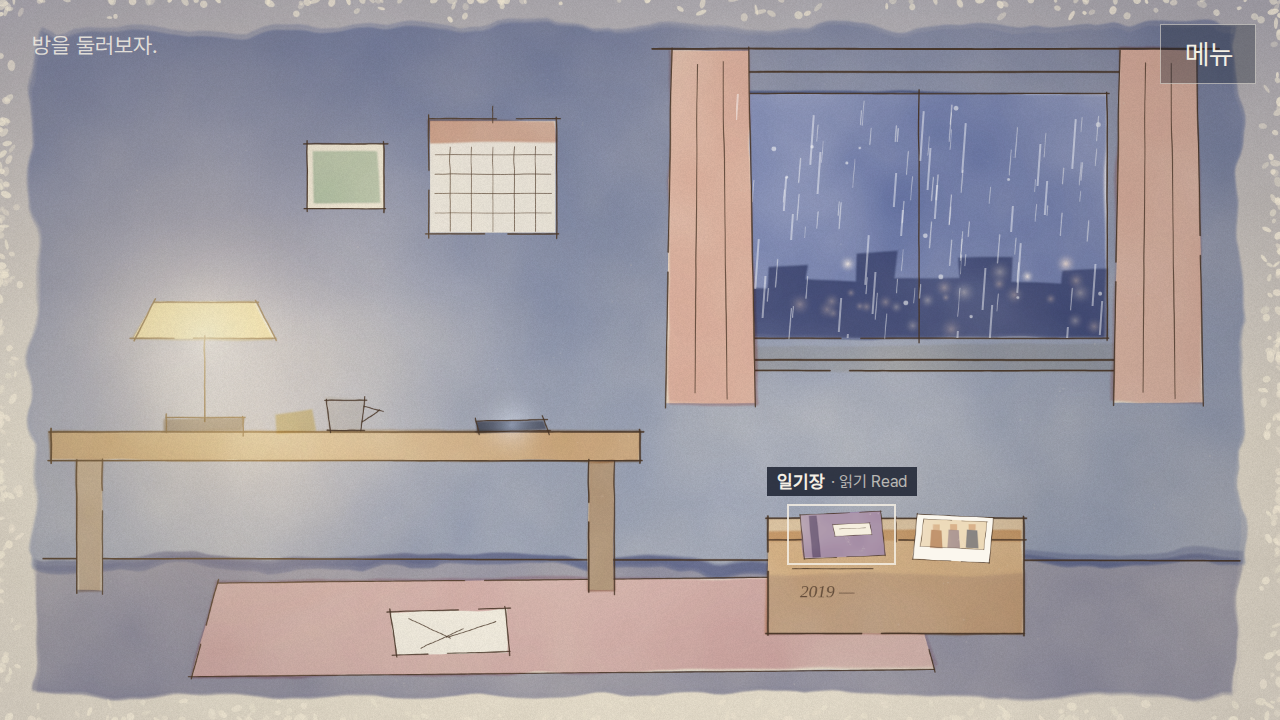
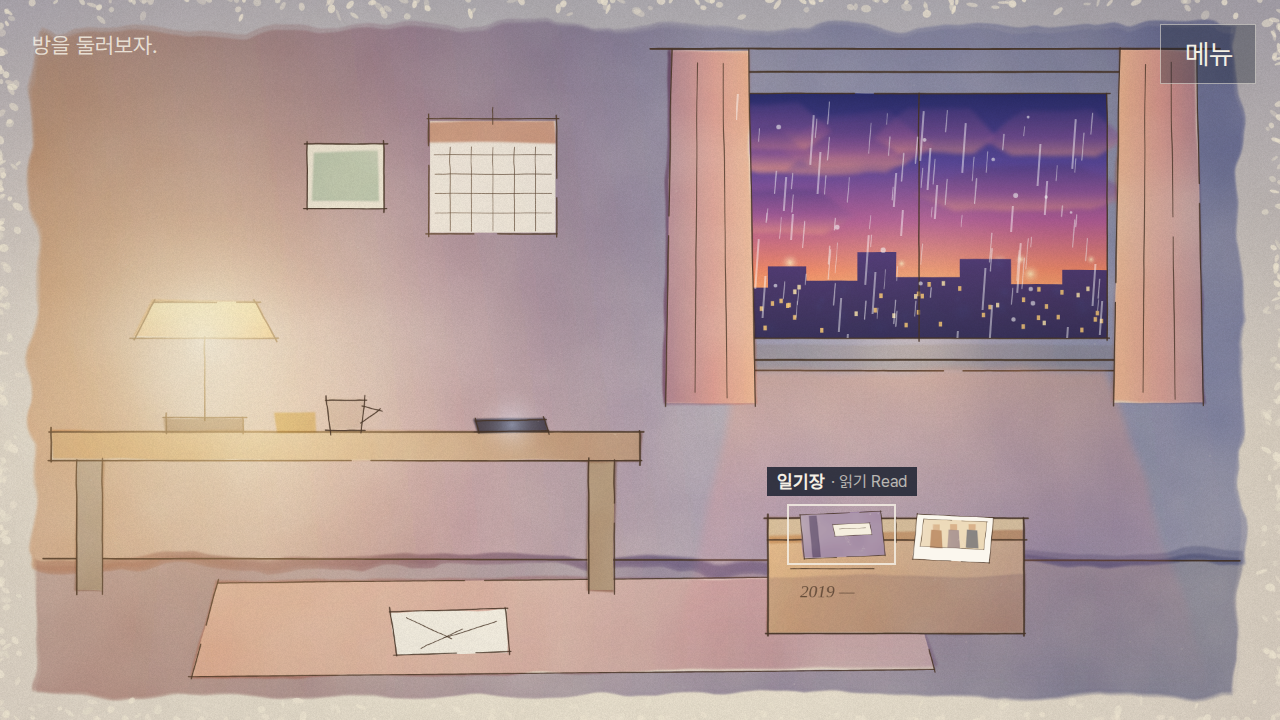
Repaint the room with gradients, a rich dusk sky and warm light
Add linear/radial gradient and luminous paint helpers to the painter.
The window now shows a rainy dusk sky (indigo to violet, rose, amber
and gold at the horizon) with clouds lit from below and city lights;
walls, floor, curtains, desk, rug and box use warm-to-cool gradients,
and the lamp and window light spill warm color into the room.
Record the art direction in ArtSource/ART_DIRECTION.md and CLAUDE.md.

Claude-Session: https://claude.ai/code/session_01QJp63bhFZm94244kzyjmou

diff --git a/dear-me/ArtSource/paint-room.html b/dear-me/ArtSource/paint-room.html
@@ -8,25 +8,30 @@ init(1920, 1080);
 // ================= the room =================
 paper();
 // wall: evening indigo, lighter toward the lamp
-wash([[0.03,0.04],[0.97,0.04],[0.97,0.785],[0.03,0.785]], '#6f86c9', {alpha:.75, rough:26, layers:3, edge:.12});
+wash([[0.03,0.04],[0.97,0.04],[0.97,0.785],[0.03,0.785]], linear(0.05,0.5,0.95,0.3,[[0,'#e7a06e'],[0.32,'#b88aa8'],[0.62,'#7f83c4'],[1,'#5c6bb8']]), {alpha:.8, rough:26, layers:3, edge:.1});
 { const tg=g.createLinearGradient(0,0,0,H*.6); tg.addColorStop(0,'rgba(70,80,150,.35)'); tg.addColorStop(1,'rgba(70,80,150,0)');
   g.save(); g.globalCompositeOperation='multiply'; g.fillStyle=tg; g.fillRect(0,0,W,H*.6); g.restore(); }
 // floor
-wash([[0.03,0.775],[0.97,0.775],[0.97,0.965],[0.03,0.965]], '#59609a', {alpha:.7, rough:18, layers:3, edge:.12});
+wash([[0.03,0.775],[0.97,0.775],[0.97,0.965],[0.03,0.965]], linear(0.1,0.8,0.9,0.95,[[0,'#b07a78'],[0.5,'#7a6aa0'],[1,'#4f5694']]), {alpha:.75, rough:18, layers:3, edge:.1});
 ink([[0.035,0.776],[0.965,0.779]],{w:2.6});
 // rug
 reserve([[0.17,0.81],[0.71,0.80],[0.73,0.93],[0.15,0.94]]);
-wash([[0.17,0.81],[0.71,0.80],[0.73,0.93],[0.15,0.94]], '#c7849a', {alpha:.55, rough:9});
+wash([[0.17,0.81],[0.71,0.80],[0.73,0.93],[0.15,0.94]], linear(0.17,0.85,0.73,0.88,[[0,'#f0a084'],[1,'#a87aa8']]), {alpha:.65, rough:9});
 ink([[0.17,0.81],[0.71,0.80],[0.73,0.93],[0.15,0.94]],{w:1.8,close:true});
 
 // window (hotspot 0.56,0.10,0.32,0.40)
 glow(0.72,0.30,520,'#c9d8f2',.25,'screen');
 reserve([[0.575,0.13],[0.865,0.13],[0.865,0.47],[0.575,0.47]],'#e9e6ea');
-washRect(0.575,0.13,0.29,0.34,'#4c63a6',{alpha:.8,rough:6});
+paint([[0.575,0.13],[0.865,0.13],[0.865,0.47],[0.575,0.47]], linear(0.72,0.13,0.72,0.47,[[0,'#2c2f6e'],[0.28,'#5b4a9c'],[0.52,'#b45f97'],[0.72,'#f08a6a'],[0.88,'#ffb86b'],[1,'#ffd9a0']]), {rough:2, blur:.6});
+// rain clouds lit from below
+for (let i=0;i<9;i++){ const cx=rnd(.585,.85), cy=rnd(.16,.30), rw=rnd(.04,.09);
+  paint([[cx-rw,cy+.02],[cx-rw*.4,cy-.02],[cx+rw*.5,cy-.025],[cx+rw,cy+.015],[cx+rw*.6,cy+.04],[cx-rw*.6,cy+.04]], linear(cx,cy-.03,cx,cy+.045,[[0,'rgba(70,60,130,.55)'],[0.6,'rgba(150,90,150,.5)'],[1,'rgba(255,170,130,.55)']]), {rough:8, blur:3}); }
+glow(0.72,0.44,260,'#ffb36b',.55,'screen');
 // city lights through the rain (paper-lantern warmth)
 for (let i=0;i<26;i++){ const x=rnd(.585,.855), y=rnd(.36,.46); glow(x,y,rnd(8,22),i%3?'#ffd08a':'#ffe7b8',.9,'screen'); }
 // distant rooftops
-wash([[0.575,0.40],[0.60,0.40],[0.60,0.37],[0.63,0.37],[0.63,0.39],[0.67,0.39],[0.67,0.35],[0.70,0.35],[0.70,0.385],[0.75,0.385],[0.75,0.36],[0.79,0.36],[0.79,0.395],[0.83,0.395],[0.83,0.375],[0.865,0.375],[0.865,0.47],[0.575,0.47]],'#2c3766',{alpha:.6,rough:2});
+paint([[0.575,0.40],[0.60,0.40],[0.60,0.37],[0.63,0.37],[0.63,0.39],[0.67,0.39],[0.67,0.35],[0.70,0.35],[0.70,0.385],[0.75,0.385],[0.75,0.36],[0.79,0.36],[0.79,0.395],[0.83,0.395],[0.83,0.375],[0.865,0.375],[0.865,0.47],[0.575,0.47]], linear(0.72,0.35,0.72,0.47,[[0,'#4a3a7c'],[1,'#2a2557']]), {alpha:.92, rough:1, blur:.5});
+for (let i=0;i<40;i++){ const x=rnd(.58,.86), y=rnd(.39,.46); g.save(); g.fillStyle=i%4?'#ffcf7a':'#ffe9b0'; g.globalAlpha=.85; g.fillRect(X(x),Y(y),5,7); g.restore(); }
 // frame + mullion
 inkRect(0.56,0.10,0.32,0.40,{w:3});
 inkRect(0.575,0.13,0.29,0.34,{w:2.2});
@@ -38,10 +43,11 @@ g.save(); g.strokeStyle='rgba(255,255,255,.55)'; g.lineCap='round';
 for (let i=0;i<70;i++){ const x=X(rnd(.58,.86)), y=Y(rnd(.14,.44)), l=rnd(14,46); g.lineWidth=rnd(1,2); g.beginPath(); g.moveTo(x,y); g.lineTo(x-l*.08,y+l); g.stroke(); }
 for (let i=0;i<14;i++){ const x=X(rnd(.58,.86)), y=Y(rnd(.15,.45)); g.fillStyle='rgba(255,255,255,.6)'; g.beginPath(); g.arc(x,y,rnd(2,4),0,7); g.fill(); }
 g.restore();
+paint([[0.575,0.515],[0.865,0.515],[0.95,0.97],[0.52,0.97]], linear(0.7,0.52,0.7,0.97,[[0,'rgba(255,170,120,.35)'],[0.5,'rgba(240,140,150,.18)'],[1,'rgba(240,140,150,0)']]), {rough:10, blur:6});
 // curtains
 for (const [cx,dir] of [[0.525,1],[0.875,-1]]){
   reserve([[cx,0.07],[cx+0.06,0.07],[cx+0.065,0.56],[cx-0.005,0.56]]);
-  wash([[cx,0.07],[cx+0.06,0.07],[cx+0.065,0.56],[cx-0.005,0.56]],'#d98e86',{alpha:.6,rough:7});
+  wash([[cx,0.07],[cx+0.06,0.07],[cx+0.065,0.56],[cx-0.005,0.56]], linear(cx+(dir>0?0.065:0),0.3,cx+(dir>0?0:0.065),0.3,[[0,'#ffb08a'],[0.5,'#e38a8e'],[1,'#a86a8e']]),{alpha:.75,rough:7});
   ink([[cx,0.07],[cx-0.005,0.56]],{w:2}); ink([[cx+0.06,0.07],[cx+0.065,0.56]],{w:2});
   ink([[cx+0.02,0.09],[cx+0.018,0.54]],{w:1.4,gap:true}); ink([[cx+0.04,0.09],[cx+0.043,0.55]],{w:1.4});
 }
@@ -58,17 +64,18 @@ ink([[0.385,0.15],[0.385,0.168]],{w:1.6});
 
 // desk
 reserve([[0.04,0.60],[0.50,0.60],[0.50,0.64],[0.04,0.64]]); reserve([[0.06,0.64],[0.08,0.64],[0.08,0.82],[0.06,0.82]]); reserve([[0.46,0.64],[0.48,0.64],[0.48,0.82],[0.46,0.82]]);
-wash([[0.04,0.60],[0.50,0.60],[0.50,0.64],[0.04,0.64]],'#c08a52',{alpha:.75,rough:4});
+wash([[0.04,0.60],[0.50,0.60],[0.50,0.64],[0.04,0.64]], linear(0.1,0.6,0.5,0.6,[[0,'#e9a25a'],[1,'#a8735a']]),{alpha:.8,rough:4});
 wash([[0.06,0.64],[0.08,0.64],[0.08,0.82],[0.06,0.82]],'#8d6542',{alpha:.6,rough:3});
 wash([[0.46,0.64],[0.48,0.64],[0.48,0.82],[0.46,0.82]],'#8d6542',{alpha:.6,rough:3});
 inkRect(0.04,0.60,0.46,0.04,{w:2.6}); ink([[0.06,0.64],[0.06,0.82]],{w:2.4}); ink([[0.08,0.64],[0.08,0.82]],{w:1.8});
 ink([[0.46,0.64],[0.46,0.82]],{w:2.4}); ink([[0.48,0.64],[0.48,0.82]],{w:1.8});
 // lamp
 reserve([[0.12,0.42],[0.20,0.42],[0.215,0.47],[0.105,0.47]],'#fbf3df');
-wash([[0.12,0.42],[0.20,0.42],[0.215,0.47],[0.105,0.47]],'#f3c763',{alpha:.6,rough:3});
+wash([[0.12,0.42],[0.20,0.42],[0.215,0.47],[0.105,0.47]], linear(0.16,0.42,0.16,0.47,[[0,'#ffd27a'],[1,'#f39a4a']]),{alpha:.7,rough:3});
 ink([[0.12,0.42],[0.20,0.42],[0.215,0.47],[0.105,0.47]],{w:2.2,close:true});
 ink([[0.16,0.47],[0.16,0.58]],{w:2.4}); wash([[0.13,0.58],[0.19,0.58],[0.19,0.60],[0.13,0.60]],'#6d5848',{alpha:.6,rough:2}); inkRect(0.13,0.58,0.06,0.02,{w:2});
-glow(0.16,0.47,700,'#ffc86a',.6,'screen');
+glow(0.16,0.47,820,'#ffb45c',.6,'screen');
+glow(0.16,0.47,420,'#ffd98f',.45,'screen');
 glow(0.16,0.47,220,'#fff1c9',.55,'screen');
 glow(0.20,0.61,380,'#ffb45a',.4,'screen');
 // coffee cup + sticky note on the desk
@@ -83,7 +90,7 @@ ink([[0.372,0.585],[0.425,0.583],[0.428,0.598],[0.374,0.6]],{w:1.8,close:true});
 
 // cardboard box on the floor (0.59,0.70,0.22,0.19)
 reserve([[0.60,0.72],[0.80,0.72],[0.80,0.88],[0.60,0.88]]);
-wash([[0.60,0.74],[0.80,0.74],[0.80,0.88],[0.60,0.88]],'#d29a5c',{alpha:.7,rough:4});
+wash([[0.60,0.74],[0.80,0.74],[0.80,0.88],[0.60,0.88]], linear(0.6,0.74,0.8,0.88,[[0,'#f0b06e'],[1,'#b0786a']]),{alpha:.75,rough:4});
 wash([[0.60,0.72],[0.80,0.72],[0.80,0.75],[0.60,0.75]],'#d9b383',{alpha:.6,rough:3});
 wash([[0.60,0.80],[0.80,0.80],[0.80,0.88],[0.60,0.88]],'#7b6aa0',{alpha:.18,rough:6});
 inkRect(0.60,0.72,0.20,0.16,{w:2.6}); ink([[0.60,0.75],[0.80,0.75]],{w:2}); ink([[0.70,0.72],[0.70,0.75]],{w:1.6});
@@ -99,7 +106,7 @@ ink([[0.32,0.86],[0.35,0.885],[0.385,0.865]],{w:1.2}); ink([[0.33,0.9],[0.36,0.8
 reserve([[0.24,0.20],[0.30,0.20],[0.30,0.29],[0.24,0.29]]); washRect(0.245,0.21,0.05,0.07,'#8fb39a',{alpha:.55,rough:2}); inkRect(0.24,0.20,0.06,0.09,{w:2});
 
 // night shading, then the page edge frays back into paper
-const vg=g.createRadialGradient(W*.45,H*.5,H*.35,W*.5,H*.5,W*.75); vg.addColorStop(0,'rgba(0,0,0,0)'); vg.addColorStop(1,'rgba(60,60,110,.22)');
+const vg=g.createRadialGradient(W*.45,H*.5,H*.35,W*.5,H*.5,W*.75); vg.addColorStop(0,'rgba(0,0,0,0)'); vg.addColorStop(1,'rgba(90,60,120,.18)');
 g.save(); g.globalCompositeOperation='multiply'; g.fillStyle=vg; g.fillRect(0,0,W,H); g.restore();
 g.save();
 for (let i=0;i<420;i++){ const side=Math.floor(rnd(0,4)); let x,y; const d=Math.pow(R(),3)*30;

diff --git a/dear-me/ArtSource/painter-lib.js b/dear-me/ArtSource/painter-lib.js
@@ -55,10 +55,10 @@ function wash(pts, color, {alpha=.55, rough=10, layers=2, edge=.35, gran=.36, of
   c.filter = `blur(${blur}px)`;
   for (let l=0;l<layers;l++){
     const shifted = P.map(([x,y])=>[x+rnd(-rough*.4,rough*.4), y+rnd(-rough*.4,rough*.4)]);
-    c.globalAlpha = alpha/layers*1.3; c.fillStyle=color; roughPath(c, shifted, rough); c.fill();
+    c.globalAlpha = alpha/layers*1.3; c.fillStyle = typeof color === 'function' ? color(c) : color; roughPath(c, shifted, rough); c.fill();
   }
   // dried edge: pigment pools at the rim
-  c.globalAlpha = edge*alpha; c.strokeStyle=color; c.lineWidth=3; roughPath(c,P,rough); c.stroke();
+  c.globalAlpha = edge*alpha; c.strokeStyle = typeof color === 'function' ? color(c) : color; c.lineWidth=3; roughPath(c,P,rough); c.stroke();
   c.filter='none';
   // uneven pigment: some areas pool, some thin out
   c.globalCompositeOperation='destination-in'; c.globalAlpha=1;
@@ -100,4 +100,13 @@ function glow(x,y,r,color,a=.55, op='screen'){
   const gr=g.createRadialGradient(X(x),Y(y),0,X(x),Y(y),r);
   gr.addColorStop(0,color); gr.addColorStop(1,'rgba(0,0,0,0)');
   g.save(); g.globalCompositeOperation=op; g.globalAlpha=a; g.fillStyle=gr; g.fillRect(0,0,W,H); g.restore();
+}
+
+// Gradient helpers: rich color is the rule (see ART_DIRECTION.md). Stops are [t, color].
+function linear(x0,y0,x1,y1,stops){ return ctx => { const gr=ctx.createLinearGradient(X(x0),Y(y0),X(x1),Y(y1)); for (const [t,c] of stops) gr.addColorStop(t,c); return gr; }; }
+function radial(x,y,r0,r1,stops){ return ctx => { const gr=ctx.createRadialGradient(X(x),Y(y),r0,X(x),Y(y),r1); for (const [t,c] of stops) gr.addColorStop(t,c); return gr; }; }
+// Painted (not multiplied) layer, for skies and light that must stay luminous on paper.
+function paint(pts, fill, {alpha=1, rough=4, blur=1}={}){
+  g.save(); g.globalAlpha=alpha; g.filter=`blur(${blur}px)`; g.fillStyle = typeof fill==='function' ? fill(g) : fill;
+  roughPath(g, pts.map(([x,y])=>[X(x),Y(y)]), rough); g.fill(); g.restore();
 }

diff --git a/dear-me/ArtSource/ART_DIRECTION.md b/dear-me/ArtSource/ART_DIRECTION.md
@@ -1,0 +1,17 @@
+# Dear Me, — Art direction
+
+Keep these rules for every scene, sprite and UI illustration.
+
+1. **Always gradients, always rich color.** No flat fills. Every wash, sky, wall and floor is a
+   gradient (warm ↔ cool), saturated enough to glow on cream paper.
+2. **The sky matters most.** Whenever a sky is visible (window, street, rooftop), give it the
+   richest color in the scene: layered gradients (e.g. indigo → violet → rose → amber → gold at the
+   horizon), clouds lit from below, light breaking through.
+3. **Warm light.** Light sources (lamp, sunset, café windows, city lights) bloom softly and spill
+   warm color onto nearby surfaces. Even night and rain scenes keep a warm light somewhere.
+4. **Style mix.** Urban Sketch line (wobbly sepia fineliner, overshoot, gaps) + Watercolor wash
+   (cream cold-press paper, uneven pigment, dried edges, granulation) + Paper Lantern glow at night.
+5. Day scenes are bright and safe; night scenes are reflective but never murky.
+
+Tools: `painter-lib.js` (`linear`, `radial`, `wash`, `paint`, `glow`, `ink`, `reserve`).
+Render with `node ArtSource/render.js`.

diff --git a/dear-me/README.md b/dear-me/README.md
@@ -182,6 +182,7 @@ object with an `image` field shows that painting, otherwise flat placeholder sha
 The look combines three lemo-opuscar styles: Urban Sketch (wobbly sepia fineliner, misregistered
 wash, page edge fraying into paper), Watercolor (cream cold-press paper, uneven pigment, dried edges,
 granulation) and Paper Lantern (warm glowing lamp and city lights at night).
+Rules: [`ArtSource/ART_DIRECTION.md`](ArtSource/ART_DIRECTION.md) — always gradients and rich color; skies and warm light come first.
 
 ```
 node ArtSource/render.js        # re-paint after editing ArtSource/*.html (needs Playwright)

diff --git a/dear-me/CLAUDE.md b/dear-me/CLAUDE.md
@@ -1,0 +1,6 @@
+# Dear Me, — notes for agents
+
+- Art: follow `ArtSource/ART_DIRECTION.md` for every new or changed illustration — gradients and rich
+  color always; skies get the richest color and warm light is the priority.
+- After editing content run `dotnet run --project Tests/DearMe.Tests`; after editing scripts run
+  `dotnet build Tests/TypeCheck` (and with `-p:InputSystem=true`).
